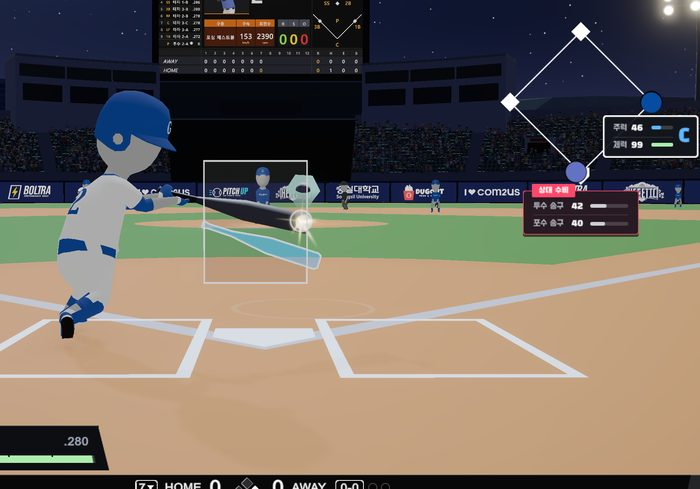
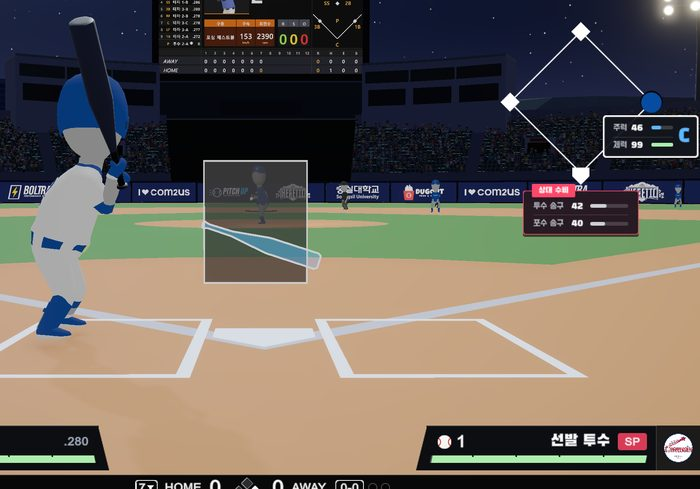
Show batter ready stance with guess area
Claude-Session: https://claude.ai/code/session_017C92t3CgGNFQPanbrZwuQJ

diff --git a/index.html b/index.html
@@ -398,7 +398,7 @@ footer{padding:40px 0;color:var(--sub);font-size:14px;border-top:1px solid var(-
 
 <script>
 {
-  const thumbs=[["t_team","구단 선택 · 팀 빌드"],["t_setup","선수 능력치 설정"],["t_map","경기 시작 경기장 연출"],["t_pitch","투구 코스 조준"],["t_bat","게스 영역 · 타격 판정"],["t_field","타구 · 수비 카메라"]];
+  const thumbs=[["t_team","구단 선택 · 팀 빌드"],["t_setup","선수 능력치 설정"],["t_map","경기 시작 경기장 연출"],["t_pitch","투구 코스 조준"],["t_bat","타격 준비 · 게스 영역"],["t_field","타구 · 수비 카메라"]];
   document.getElementById('thumbs').innerHTML=thumbs.map(([f,c])=>`<figure><img src="img/${f}.jpg" alt="${c}"><figcaption>${c}</figcaption></figure>`).join('');
   const ext=[["2026.06 ~ 07","메이플스토리 해커톤 — IntotheSeed 출품"],["2026.05","메이플스토리 월드 대학생 연합 부트캠프 심화반 수료"],["2026.03 ~ 09","SSG 리테일테크 코딩교실 서포터즈"],["2025.03 ~ 12","펄어비스 딩가딩 해커톤 프로젝트 서포터즈"],["2024.06 ~ 09","LOGIN 게임 제작 발표회"],["2024.08 ~ 09","만들레 10분 콘테스트"],["2021.07 ~ 09","스마일게이트 인디게임 개발 장학팀 1기"]];
   const int=[["2026.03 ~ 08","고급 캡스톤 디자인 프로젝트"],["2025.09 ~ 2026.01","캡스톤 디자인 — DOTS 행성 생성"],["2025.05 ~ 09","소프트웨어 프로젝트 — ASK 2025 논문"],["2025.01 ~ 2026.03","게임 개발 동아리 겜마루 부회장 — 베터그라운드 지원사업 선정"],["2024.03 ~ 09","요리 동아리 식의찬미 회장"],["2021.03 ~ 2022.03","소프트웨어학부 학생회"]];
